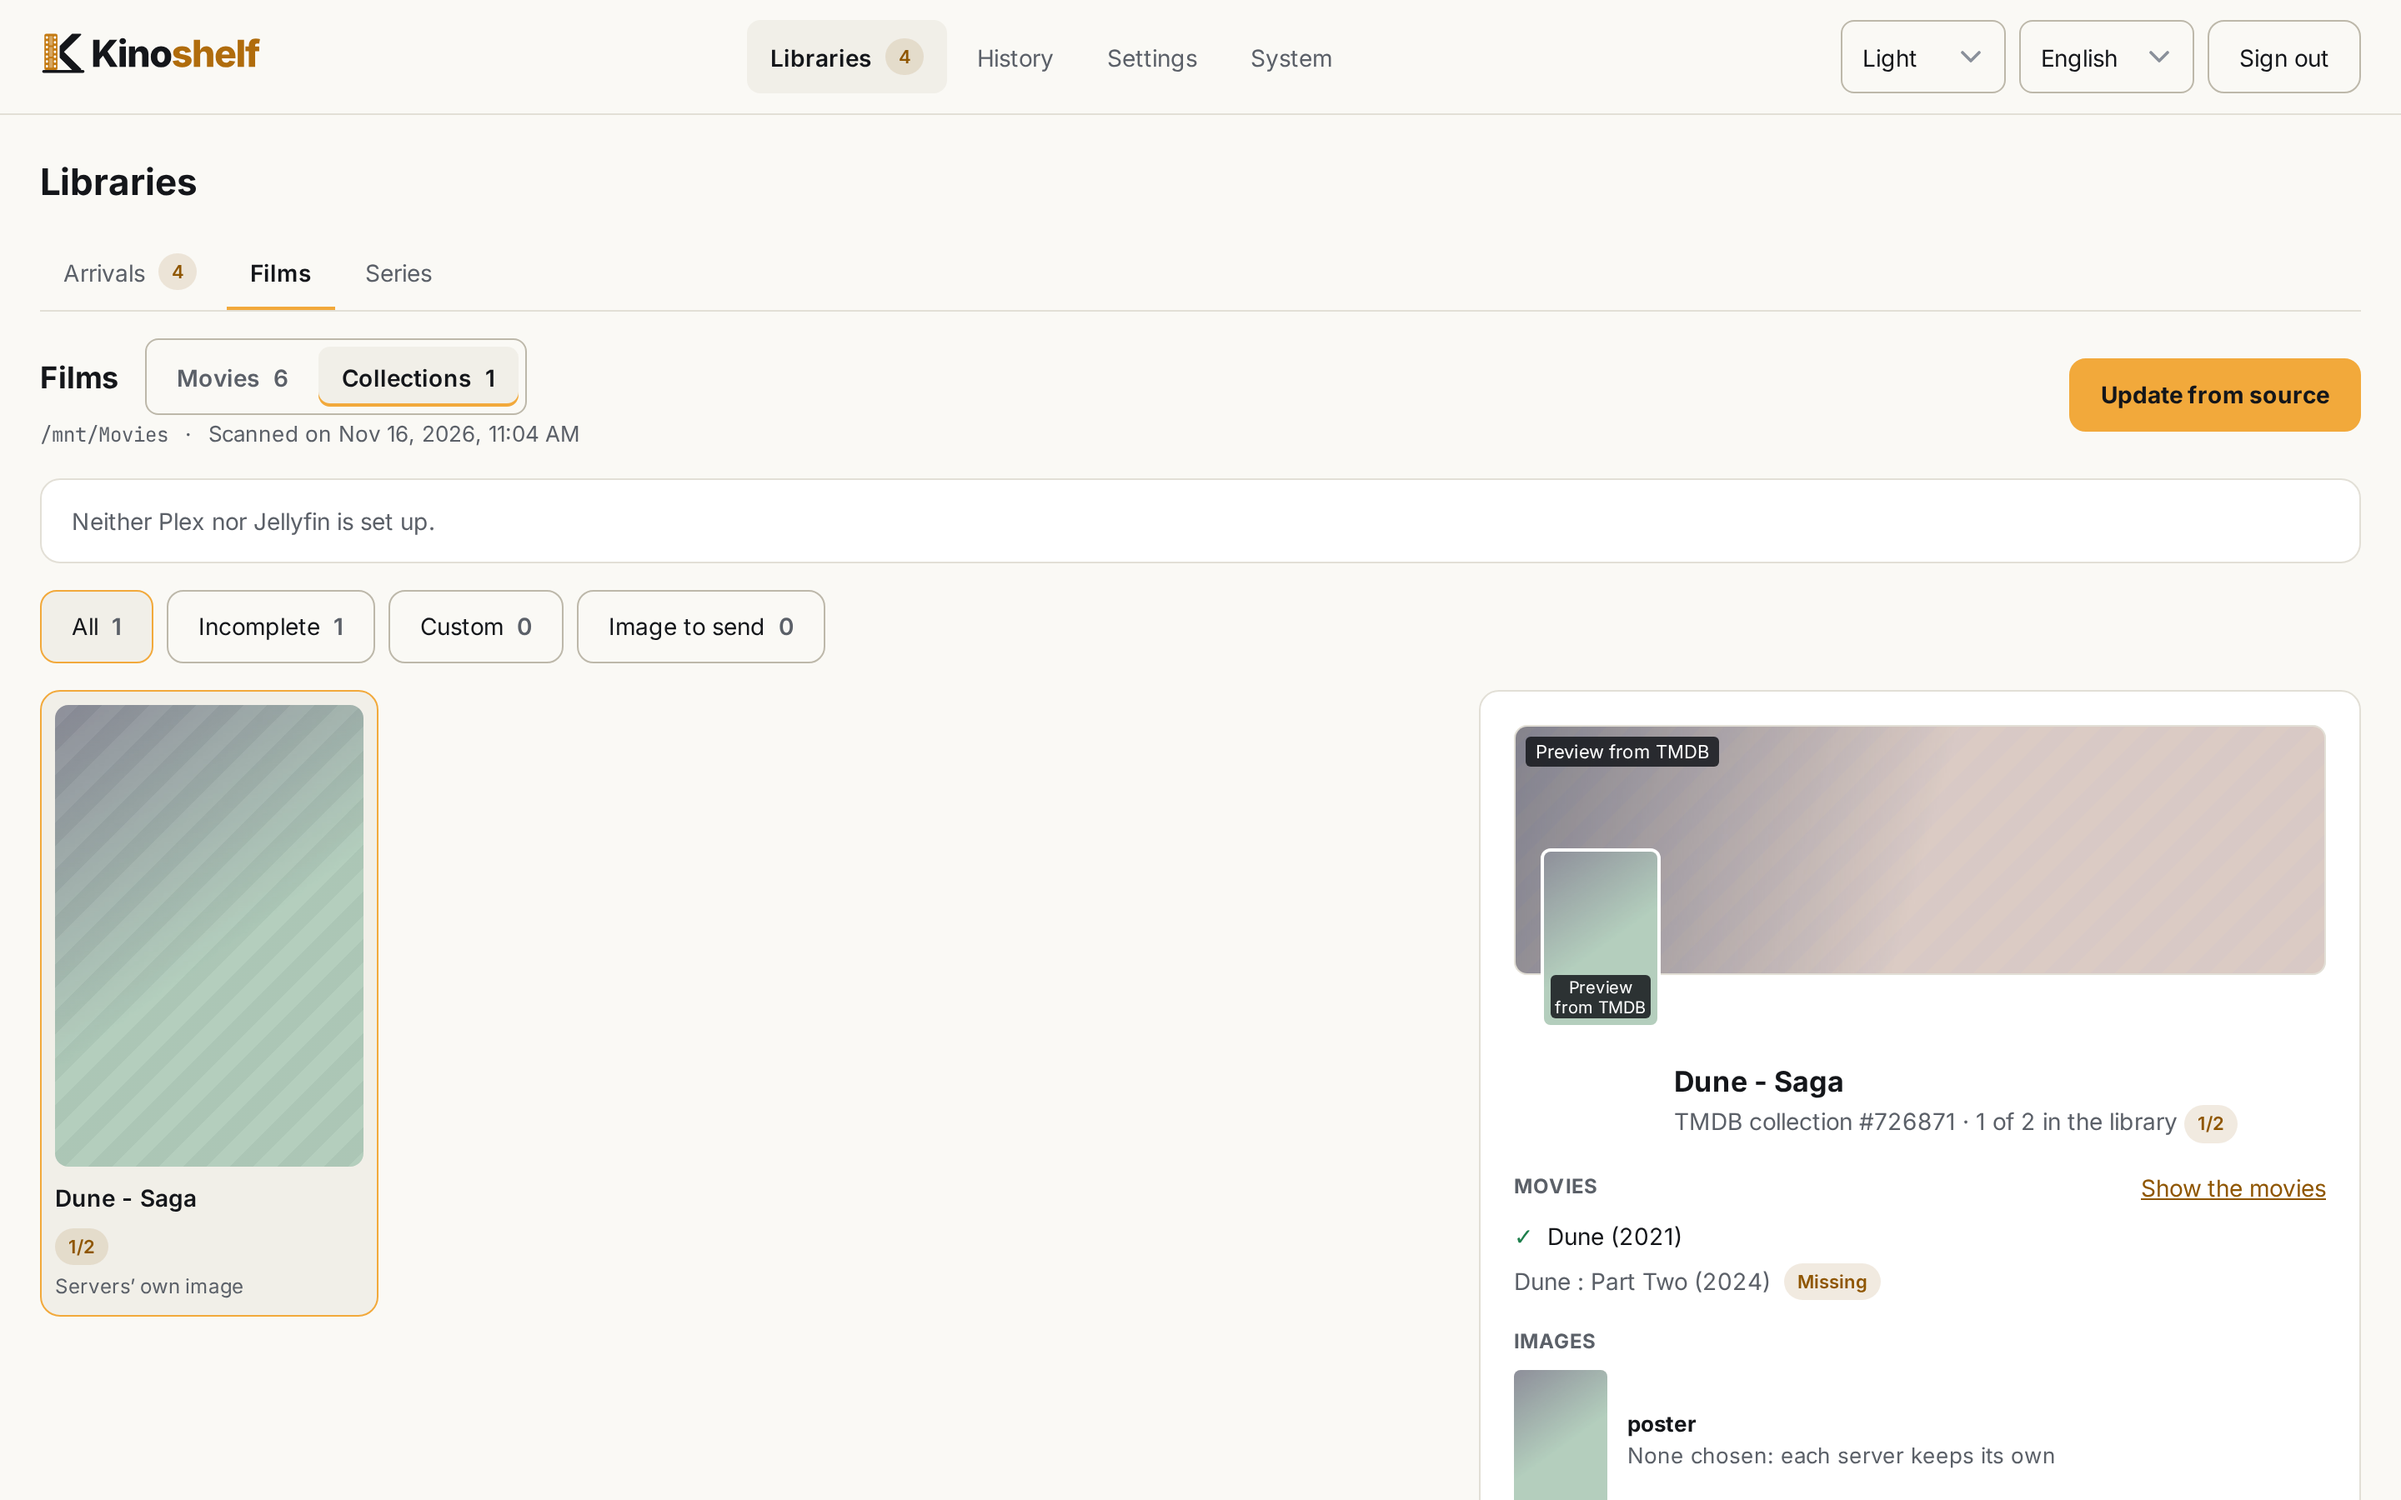
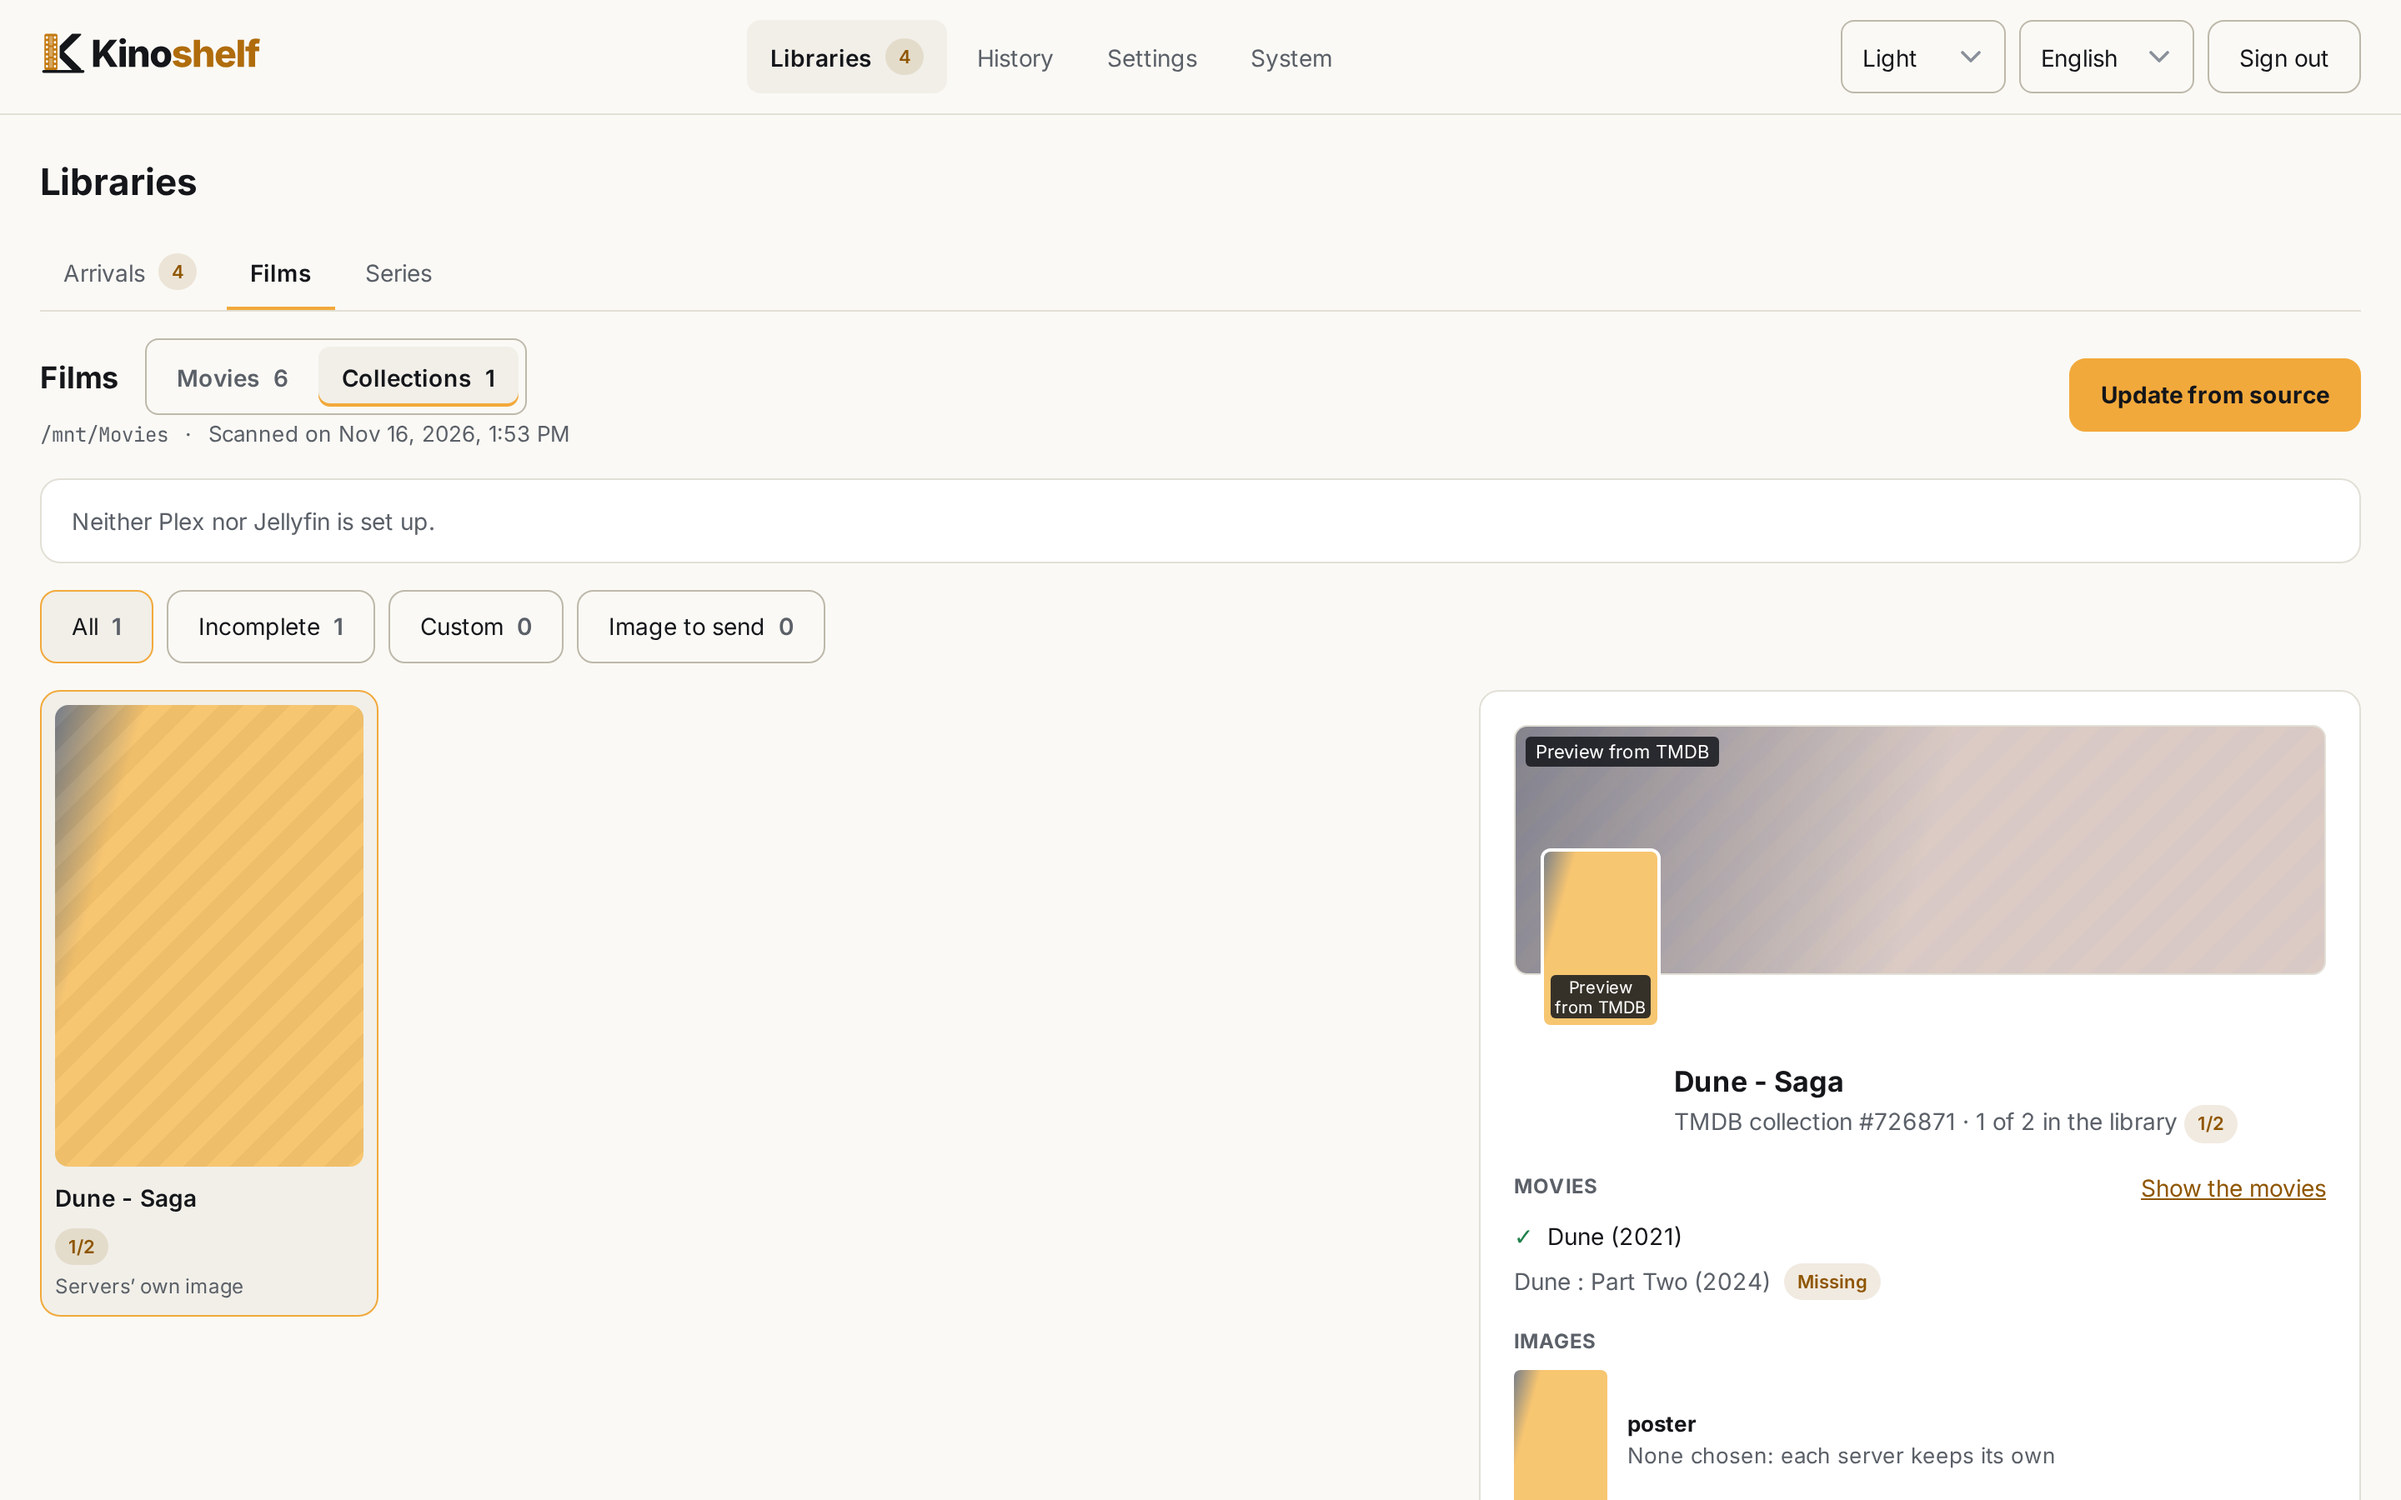
docs: describe TMDB-lacking episodes in Arrivals and choosing TMDB's collection images

diff --git a/docs/2-libraries.md b/docs/2-libraries.md
@@ -166,6 +166,8 @@ In a movie library that writes NFO, a **collection** (a saga) exists for a playe
   included, "2/3", sorted by year), and lets you **rename** an own collection on all its movies, and choose its
   **poster** and **background** (from TMDB, from one of its movies, or from an address). While none is
   chosen, TMDB's poster and background are drawn dimmed and tagged as a preview.
+  **Choose TMDB's images** keeps those previews as the choice of every collection that has none (nothing is
+  sent until you use **Send pending images**).
 - A collection image is kept by Kinoshelf (in `<config>/collection-images/`), never in a movie's
   folder. **Send** pushes the chosen images to Plex and Jellyfin (found by collection name). The state
   of each is `default`, `pending`, `sent`, `missing` (the server has no such collection yet: neither

diff --git a/docs/1-web-ui.md b/docs/1-web-ui.md
@@ -84,7 +84,8 @@ place never lands here. The files are in three states:
 - **Not recognized**: nothing was found.
 
 For each file you see its TMDB candidates and their score, a manual search, and the destination a
-choice would give. When TMDB has no such season and episode for the series, the panel says so: a
+choice would give. When TMDB lacks the season and episode of some files of the series, the panel lists
+them grouped by season, with a link to each season on TMDB (or says the season does not exist there): a
 perfect title still waits for validation, because the numbering may differ.
 
 ![The Arrivals tab: files ready to transfer, with the TMDB candidate and the destination](images/arrivals.png#gh-dark-mode-only)
